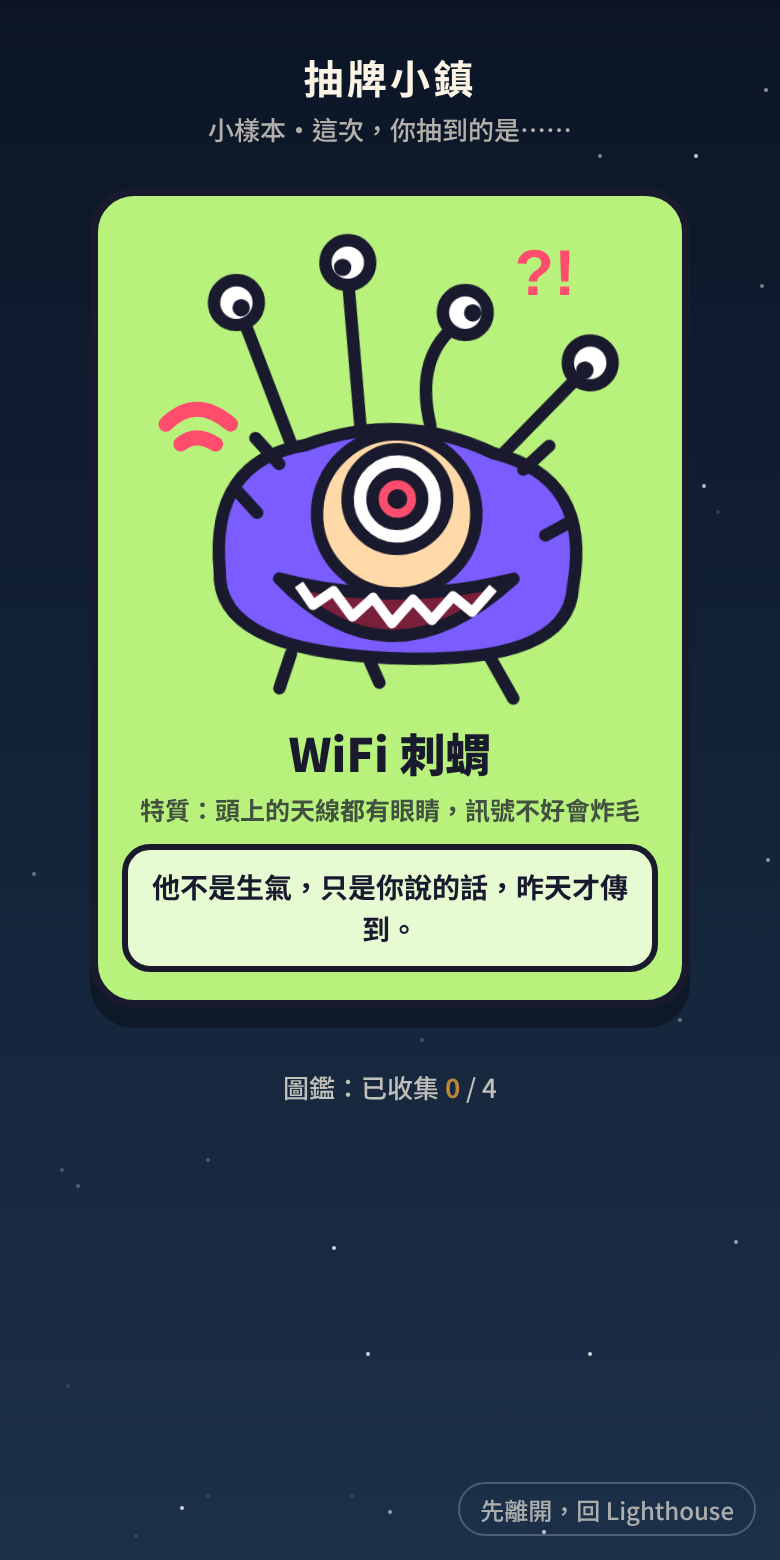
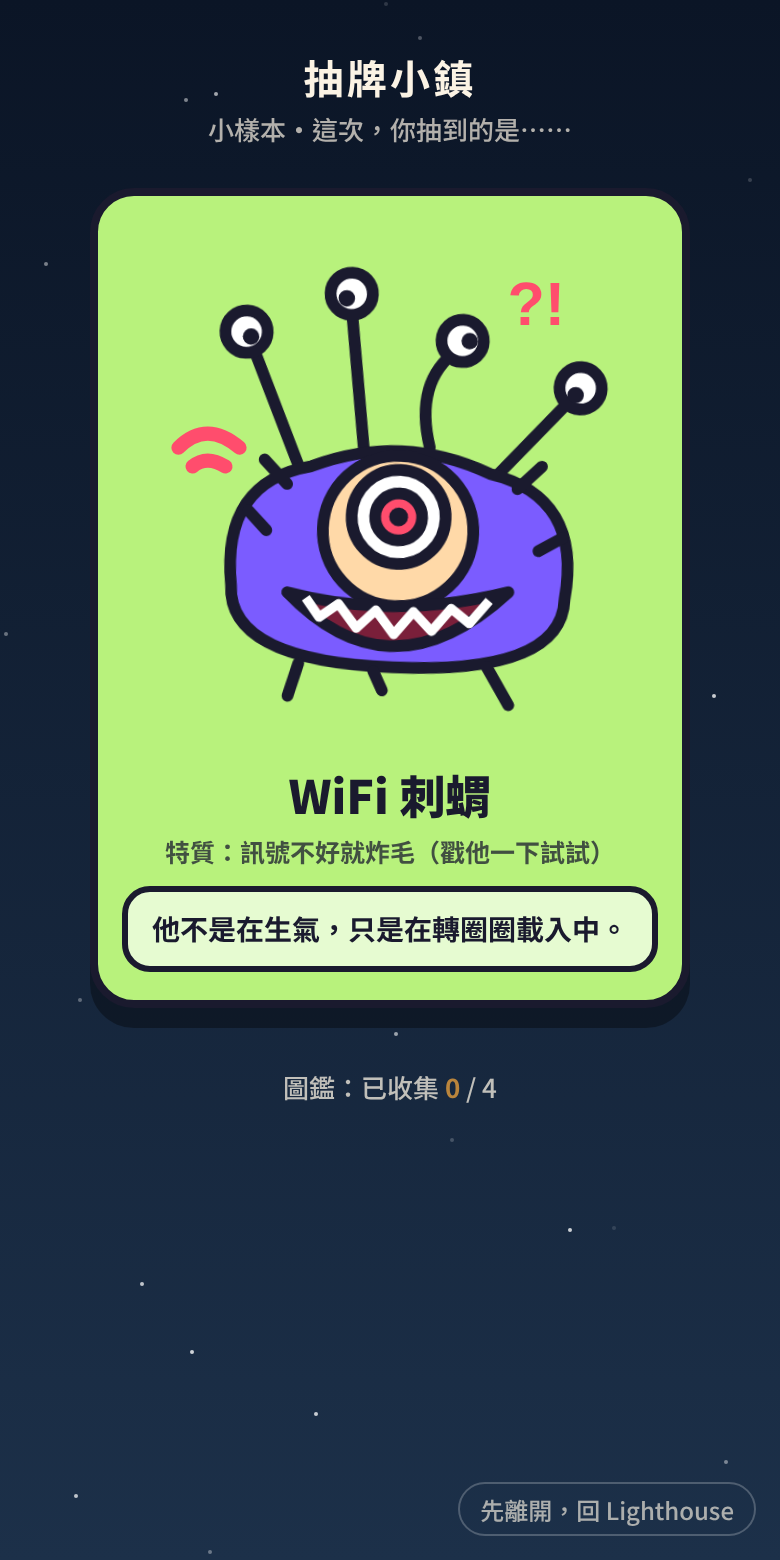
Lighthouse: 抽牌小樣本調整水獺、企鵝嘴巴、刺蝟炸毛互動與文案
Claude-Session: https://claude.ai/code/session_01QMXbFy7GatcecM2zJaJAS8

Changed region(s): [[0.1538, 0.1231, 0.8615, 0.6154]]

diff --git a/lighthouse/cards-sample.html b/lighthouse/cards-sample.html
@@ -60,6 +60,13 @@ h1{font-size:20px;margin:6px 0 2px;letter-spacing:.08em}
 @keyframes blink{0%,94%,100%{transform:scaleY(1)}97%{transform:scaleY(.1)}}
 .zz{animation:zz 2s ease-in-out infinite}
 @keyframes zz{0%{opacity:0;transform:translate(0,6px)}50%{opacity:1}100%{opacity:0;transform:translate(8px,-10px)}}
+.ants{transform-origin:100px 118px;transform-box:view-box}
+.fluff .ants{animation:fluff .18s linear 7}
+.fluff .wifi{animation:flick .18s steps(2) 7}
+.fluff .wob{animation:puff 1.3s ease-out 1}
+@keyframes fluff{0%{transform:rotate(-6deg) scale(1.04)}50%{transform:rotate(6deg) scale(1.08)}100%{transform:rotate(-6deg) scale(1.04)}}
+@keyframes flick{50%{opacity:0}}
+@keyframes puff{0%,100%{transform:scale(1)}20%{transform:scale(1.12,.9)}}
 @media (prefers-reduced-motion:reduce){*{animation-duration:.01ms!important;animation-iteration-count:1!important;transition-duration:.01ms!important}}
 </style>
 </head>
@@ -88,27 +95,32 @@ const eyeSpiral = (x,y,r=12) => `<g class="blink"><circle cx="${x}" cy="${y}" r=
 const ART = {
   /* 吐司水獺：奶油融化中，三隻眼睛高低不一，手像麵條 */
   otter: `<svg viewBox="0 0 200 200"><g class="wob">
-    <path d="M50 76 Q44 40 80 44 Q100 26 120 44 Q156 40 150 76 L156 140 Q160 152 146 154 Q140 176 130 152 Q120 150 116 162 Q112 182 102 160 Q90 154 84 166 Q78 178 72 156 Q56 158 50 146 Z" fill="#f2b45a" ${o}/>
-    <path d="M60 58 Q100 44 140 58" fill="none" stroke="#c9822e" stroke-width="5" stroke-linecap="round"/>
-    <g transform="rotate(-14 98 34)"><rect x="76" y="22" width="44" height="22" rx="4" fill="#ffe66d" ${o}/><path d="M80 44 Q84 56 90 44" fill="#ffe66d" ${o}/></g>
-    <path d="M70 18 L96 6 L112 14 L96 24 Z" fill="#ff4d6d" ${o} transform="rotate(8 90 14)"/>
-    <ellipse cx="100" cy="108" rx="38" ry="32" fill="#8a5a38" ${o}/>
-    <ellipse cx="104" cy="124" rx="22" ry="14" fill="#e6c9a0" ${o}/>
-    ${eyeBig(78,96,13,3)}${eyeBig(116,88,9,-2)}${eyeBig(100,70,5,0)}
-    <path d="M84 126 Q104 150 126 124 Z" fill="#7a1f3a" ${o}/>
-    <path d="M108 132 Q118 160 134 150 Q128 138 120 132 Z" fill="#ff6b8a" ${o}/>
-    <rect x="94" y="124" width="8" height="10" rx="2" fill="#fff" ${o}/>
-    <path d="M52 112 Q30 100 36 128 Q24 140 42 150" fill="none" stroke="${INK}" stroke-width="5" stroke-linecap="round"/><circle cx="42" cy="152" r="7" fill="#e6c9a0" ${o}/>
-    <path d="M148 110 Q176 90 160 70 Q182 62 170 44" fill="none" stroke="${INK}" stroke-width="5" stroke-linecap="round"/><circle cx="170" cy="42" r="7" fill="#e6c9a0" ${o}/>
+    <path d="M44 120 Q40 104 60 104 L140 104 Q160 104 156 120 L160 150 Q164 160 150 160 Q146 182 136 160 Q124 158 120 170 Q116 188 106 164 Q92 160 86 172 Q80 184 74 162 Q56 164 50 154 Z" fill="#f2b45a" ${o}/>
+    <path d="M56 118 Q100 108 144 118" fill="none" stroke="#c9822e" stroke-width="5" stroke-linecap="round"/>
+    <g transform="rotate(-10 150 112)"><rect x="128" y="96" width="34" height="18" rx="4" fill="#ffe66d" ${o}/></g>
+    <path d="M52 132 Q28 128 34 150 Q22 160 38 168" fill="none" stroke="${INK}" stroke-width="5" stroke-linecap="round"/><circle cx="38" cy="170" r="7" fill="#c98a5a" ${o}/>
+    <path d="M148 132 Q176 122 166 100 Q188 94 178 76" fill="none" stroke="${INK}" stroke-width="5" stroke-linecap="round"/><circle cx="177" cy="73" r="7" fill="#c98a5a" ${o}/><path d="M166 66 Q177 40 190 66 Z" fill="#ffd1e8" ${o}/><path d="M172 64 L177 48 M178 64 L178 46 M184 64 L180 48" stroke="${INK}" stroke-width="2.5" stroke-linecap="round"/>
+    <circle cx="56" cy="62" r="7" fill="#8a5a38" ${o}/><circle cx="144" cy="62" r="7" fill="#8a5a38" ${o}/>
+    <ellipse cx="100" cy="86" rx="54" ry="36" fill="#8a5a38" ${o}/>
+    <ellipse cx="100" cy="102" rx="36" ry="22" fill="#f0dcb8" ${o}/>
+    <ellipse cx="100" cy="94" rx="11" ry="7" fill="${INK}"/>
+    <path d="M100 100 L100 108 M88 110 Q100 120 112 110" fill="none" stroke="${INK}" stroke-width="4" stroke-linecap="round"/>
+    <circle cx="82" cy="104" r="2" fill="${INK}"/><circle cx="90" cy="108" r="2" fill="${INK}"/><circle cx="118" cy="104" r="2" fill="${INK}"/><circle cx="110" cy="108" r="2" fill="${INK}"/>
+    <path d="M70 96 L30 84 M68 104 L26 106 M72 112 L34 126 M130 96 L170 84 M132 104 L174 106 M128 112 L166 126" stroke="${INK}" stroke-width="3.5" stroke-linecap="round"/>
+    ${eyeBig(76,80,10,2)}${eyeBig(124,80,10,-2)}
+    <circle cx="100" cy="58" r="15" fill="#fff" ${o}/>
+    <path d="M88 58 Q100 68 112 58" fill="none" stroke="${INK}" stroke-width="5" stroke-linecap="round"/>
+    <path d="M90 62 L87 67 M100 65 L100 71 M110 62 L113 67" stroke="${INK}" stroke-width="3" stroke-linecap="round"/>
     </g>
-    <g class="zz" fill="${INK}" font-weight="900" font-family="sans-serif"><text x="14" y="52" font-size="22">Z</text></g>
-    <g class="zz" style="animation-delay:.7s" fill="${INK}" font-weight="900" font-family="sans-serif"><text x="30" y="34" font-size="16">z</text></g></svg>`,
+    <g class="zz" fill="${INK}" font-weight="900" font-family="sans-serif"><text x="116" y="34" font-size="22">Z</text></g>
+    <g class="zz" style="animation-delay:.7s" fill="${INK}" font-weight="900" font-family="sans-serif"><text x="134" y="18" font-size="15">z</text></g></svg>`,
   /* WiFi 刺蝟：刺是長眼睛的天線，一隻超大眼，嘴巴開到耳朵 */
-  hedgehog: `<svg viewBox="0 0 200 200"><g class="wob">
+  hedgehog: `<svg viewBox="-14 -10 228 220"><g class="wob"><g class="ants">
     <path d="M60 100 L34 40" stroke="${INK}" stroke-width="5" stroke-linecap="round"/><circle cx="32" cy="36" r="9" fill="#fff" ${o}/><circle cx="34" cy="38" r="3.5" fill="${INK}"/>
     <path d="M84 84 L76 22" stroke="${INK}" stroke-width="5" stroke-linecap="round"/><circle cx="76" cy="18" r="9" fill="#fff" ${o}/><circle cx="74" cy="20" r="3.5" fill="${INK}"/>
     <path d="M112 82 Q104 54 122 40" fill="none" stroke="${INK}" stroke-width="5" stroke-linecap="round"/><circle cx="124" cy="36" r="9" fill="#fff" ${o}/><circle cx="127" cy="36" r="3.5" fill="${INK}"/>
     <path d="M138 96 L172 58" stroke="${INK}" stroke-width="5" stroke-linecap="round"/><circle cx="175" cy="54" r="9" fill="#fff" ${o}/><circle cx="173" cy="57" r="3.5" fill="${INK}"/>
+    </g>
     <path d="M30 144 Q24 100 62 92 Q100 76 138 92 Q178 100 172 144 Q172 176 100 176 Q30 176 30 144Z" fill="#7b5cff" ${o}/>
     <path d="M44 120 L36 112 M52 100 L42 90 M150 98 L160 88 M160 124 L170 118" stroke="${INK}" stroke-width="5" stroke-linecap="round"/>
     <circle cx="100" cy="118" r="32" fill="#ffd9a8" ${o}/>
@@ -118,21 +130,21 @@ const ART = {
     <path d="M62 148 L68 156 L76 150 L84 160 L92 152 L100 162 L108 152 L116 160 L124 150 L132 156 L140 146" fill="none" stroke="#fff" stroke-width="4" stroke-linejoin="round"/>
     <path d="M60 176 L56 190 M92 178 L96 186 M140 174 L150 190" stroke="${INK}" stroke-width="5" stroke-linecap="round"/>
     </g>
-    <g fill="none" stroke="#ff4d6d" stroke-width="6" stroke-linecap="round"><path d="M10 82 Q22 70 36 82"/><path d="M16 90 Q22 85 30 90"/></g>
+    <g class="wifi" fill="none" stroke="#ff4d6d" stroke-width="6" stroke-linecap="round"><path d="M10 82 Q22 70 36 82"/><path d="M16 90 Q22 85 30 90"/></g>
     <text x="150" y="30" font-size="26" font-weight="900" fill="#ff4d6d" font-family="sans-serif">?!</text></svg>`,
   /* 冷場企鵝：肚子是倒著走的時鐘，笑容大到超出臉 */
   penguin: `<svg viewBox="0 -16 200 216"><g class="wob">
     <path d="M100 30 Q154 30 156 100 Q160 172 100 172 Q40 172 44 100 Q46 30 100 30Z" fill="#3c4a8a" ${o}/>
     <g transform="rotate(14 100 22)"><rect x="78" y="-4" width="44" height="34" rx="3" fill="#1a1a2e" ${o}/><rect x="68" y="26" width="64" height="8" rx="3" fill="#1a1a2e" ${o}/><rect x="78" y="16" width="44" height="7" fill="#ff4d6d"/></g>
-    <circle cx="100" cy="128" r="36" fill="#fff8e7" ${o}/>
-    <g class="clk" style="transform-origin:100px 128px"><path d="M100 128 L100 104" stroke="${INK}" stroke-width="5" stroke-linecap="round"/></g>
-    <path d="M100 128 L118 138" stroke="${INK}" stroke-width="4" stroke-linecap="round"/>
-    <text x="93" y="106" font-size="11" font-weight="900" fill="${INK}" font-family="sans-serif" transform="rotate(180 100 100)" style="display:none">12</text>
-    <g font-size="11" font-weight="900" fill="${INK}" font-family="sans-serif" text-anchor="middle"><text x="100" y="102">21</text><text x="130" y="132">9</text><text x="100" y="162">6</text><text x="70" y="132">3</text></g>
-    ${eyeSpiral(78,70,11)}${eyeBig(122,64,17,-5)}
-    <path d="M86 88 L114 88 L100 102 Z" fill="#ff9f1c" ${o}/>
-    <path d="M18 84 Q100 190 184 76 Q100 126 18 84Z" fill="#fff" ${o}/>
-    <path d="M30 96 L34 88 M48 108 L52 98 M70 116 L72 106 M96 120 L96 110 M122 116 L120 106 M146 106 L142 98 M166 94 L160 86" stroke="${INK}" stroke-width="3.5" stroke-linecap="round"/>
+    ${eyeSpiral(78,62,11)}${eyeBig(122,56,17,-5)}
+    <path d="M88 78 L112 78 L100 92 Z" fill="#ff9f1c" ${o}/>
+    <path d="M34 94 Q100 176 166 90 Q100 114 34 94Z" fill="#7a1f3a" ${o}/>
+    <path d="M52 100 Q100 116 148 98 L144 108 Q100 124 56 110 Z" fill="#fff"/>
+    <path d="M78 134 Q100 108 122 134 Q100 150 78 134Z" fill="#ff6b8a" ${o}/>
+    <circle cx="100" cy="150" r="24" fill="#fff8e7" ${o}/>
+    <g class="clk" style="transform-origin:100px 150px"><path d="M100 150 L100 134" stroke="${INK}" stroke-width="4" stroke-linecap="round"/></g>
+    <path d="M100 150 L112 156" stroke="${INK}" stroke-width="3.5" stroke-linecap="round"/>
+    <g font-size="9" font-weight="900" fill="${INK}" font-family="sans-serif" text-anchor="middle"><text x="100" y="134">21</text><text x="118" y="153">9</text><text x="100" y="170">6</text><text x="82" y="153">3</text></g>
     <path d="M44 120 Q16 112 18 150 Q30 142 48 140Z" fill="#3c4a8a" ${o}/>
     <path d="M156 120 Q190 100 186 138 Q170 134 152 138Z" fill="#3c4a8a" ${o}/>
     <ellipse cx="72" cy="178" rx="26" ry="8" fill="#ff9f1c" ${o}/><ellipse cx="132" cy="180" rx="12" ry="6" fill="#ff9f1c" ${o}/>
@@ -163,9 +175,9 @@ const ART = {
 };
 
 const CARDS = [
-  {id:"otter",   name:"吐司水獺",   trait:"特質：奶油融化中，有三隻眼睛，但常常睡著三隻", say:"他說自己一點都不睏。（第三隻眼睛已經先睡了）", bg:"#ffb3d1", rare:0},
-  {id:"hedgehog",name:"WiFi 刺蝟", trait:"特質：頭上的天線都有眼睛，訊號不好會炸毛", say:"他不是生氣，只是你說的話，昨天才傳到。", bg:"#b8f27c", rare:0},
-  {id:"penguin", name:"冷場企鵝",   trait:"特質：肚子上的時鐘倒著走，永遠早到昨天", say:"全場安靜，是因為大家都在偷偷憋笑。（大概）", bg:"#7de3ff", rare:0},
+  {id:"otter",   name:"吐司水獺",   trait:"特質：額頭有第三隻眼睛，總是最先睡著", say:"他說自己一點都不睏。（額頭那隻已經睡了）", bg:"#ffb3d1", rare:0},
+  {id:"hedgehog",name:"WiFi 刺蝟", trait:"特質：訊號不好就炸毛（戳他一下試試）", say:"他不是在生氣，只是在轉圈圈載入中。", bg:"#b8f27c", rare:0},
+  {id:"penguin", name:"冷場企鵝",   trait:"特質：肚子的時鐘倒著走，笑話慢半拍才到", say:"全場安靜，是因為大家都在偷偷憋笑。（大概）", bg:"#7de3ff", rare:0},
   {id:"snail",   name:"茶杯燈塔蝸牛", trait:"特質：慢慢來，迷路也沒關係，而且會發光", say:"仙境本來就沒有直線，你走歪的那一步，也算數。", bg:"#7a5cff", rare:1}
 ];
 
@@ -211,7 +223,10 @@ function draw(){
   setTimeout(() => { burst(); if(c.rare) setTimeout(burst, 250); again.hidden = false; busy = false;
     dex.add(c.id); try{ localStorage.setItem("lh_cards_dex", JSON.stringify([...dex])); }catch(e){} renderDex(); }, 650);
 }
-card.addEventListener("click", () => { if(!card.classList.contains("flip")) draw(); });
+card.addEventListener("click", () => {
+  if(!card.classList.contains("flip")) return draw();
+  if(CARDS[last] && CARDS[last].id === "hedgehog"){ front.classList.remove("fluff"); void front.offsetWidth; front.classList.add("fluff"); setTimeout(() => front.classList.remove("fluff"), 1400); }
+});
 card.addEventListener("keydown", e => { if((e.key==="Enter"||e.key===" ") && !card.classList.contains("flip")) draw(); });
 again.addEventListener("click", draw);
 </script>
